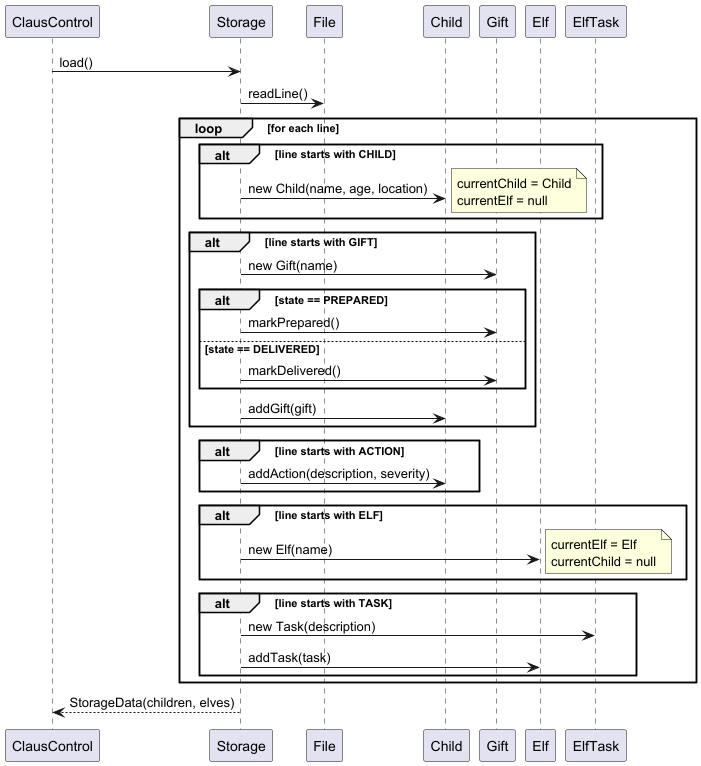
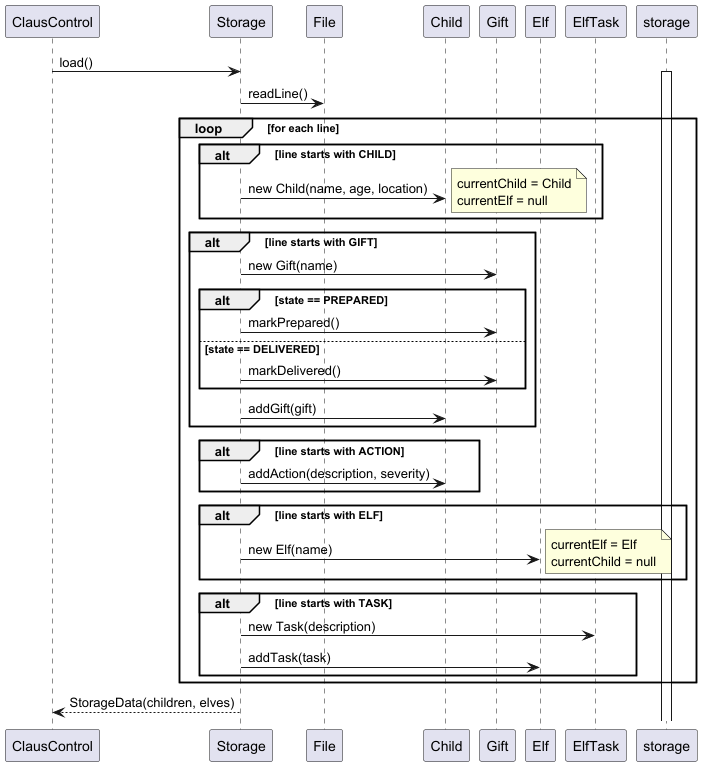
Fix DG documentation

diff --git a/docs/DeveloperGuide.md b/docs/DeveloperGuide.md
@@ -38,18 +38,31 @@ It handles saving and loading of  data such as:
 - Todo items
 Data is stored in a file and loaded back into the system when the application starts.
 
-#### Responsibilities
-The Storage component:
-- Saves application data to local device.
-- Loads saved data.
-
 #### Implementation
-The Storage component interacts with the following classes:
-- child
-- gift
-- elf
-- elftask
-- todo
+**Saving data**
+The save() method writes the lists into a .txt file in a structured format.
+1. Each child's name is written with the CHILD tag.
+2. The corresponding gifts of the child are written just below it with the GIFT tag.
+3. The child's actions and severities are stores with the ACTION tag.
+4. Each elf is written with the ELF tag.
+5. The corresponding elf tasks are written under it with the TASK tag.
+
+**Loading data**
+The load() method reconstructs data from the .txt file.
+1. It reads the file line by line.
+2. Splits each line using "|".
+3. Processes:
+   "CHILD" → creates new Child
+   "GIFT" → creates new Gift and restores the status of the gift.
+   "ACTION" → restores an action and its severity
+   "ELF" → creates a new Elf
+   "TASK" → adds a ElfTask
+4. Restores gift state:
+   PREPARED → markPrepared()
+   DELIVERED → markDelivered()
+   default → remains IN_PROGRESS
+5. Adds gift to the current child
+
 
 #### Design
 The storage component provides a unified interface (`Storage.java`) that handles the storage related operations.
@@ -58,11 +71,20 @@ The storage component provides a unified interface (`Storage.java`) that handles
 - When the application starts, data is loaded from storage.
 - When the user inputs commands,the resulting data changes are saved.
 
-#### Sequence diagram to show control flow
+#### UML diagrams to show control flow
+The class diagram and sequence diagrams are as follows-
+
+
+![StorageClassDiagram.png](diagrams/StorageClassDiagram.png)
+
 ![StorageSequenceDiagram.png](diagrams/StorageSequenceDiagram.png)
+
+
 
 #### Notes
 - Storage is independent of the command execution logic
+The storage component does not handle user inputs. The Logic layer interacts with Storage through its public methods- 
+save() and load() only. The Storage component does not know how data is handled internally.
 
 ## Data Component
 
@@ -757,7 +779,7 @@ Given below is a sequence diagram showing how the reset command works.
     - **Pros:** Fails fast and loudly if the application state is unexpectedly broken
     - **Cons:** Less robust in edge cases such as testing or partial initialisation scenarios
 
-```
+
 ### Add gift feature(Prerana Ravi Shankar)
 
 #### Overview
@@ -891,54 +913,6 @@ Given below is the sequence diagram
   - **Alternative 2:** Merge the command into deliveryStatus command.
     - **Pros:** Fewer classes.
     - **Cons:** Increases complexity of conditional logic.
-
-
-### Storage  (Prerana Ravi Shankar)
-
-#### Overview
-This component saves the data in the application and reloads it upon running the application.
-It stores:
-1. Child name
-2. Gift name/s
-3. Actions and severities
-4. Elves and elf tasks
-
-#### Implementation
-**Saving data**
-The save() method writes the lists into a .txt file in a structured format.
-1. Each child's name is written with the CHILD tag.
-2. The corresponding gifts of the child are written just below it with the GIFT tag.
-3. The child's actions and severities are stores with the ACTION tag.
-4. Each elf is written with the ELF tag.
-5. The corresponding elf tasks are written under it with the TASK tag.
-
-**Loading data**
-The load() method reconstructs data from the .txt file.
-1. It reads the file line by line.
-2. Splits each line using "|".
-3. Processes:
-   "CHILD" → creates new Child
-   "GIFT" → creates new Gift and restores the status of the gift.
-   "ACTION" → restores an action and its severity
-   "ELF" → creates a new Elf 
-   "TASK" → adds a ElfTask
-4. Restores gift state:
-   PREPARED → markPrepared()
-   DELIVERED → markDelivered()
-   default → remains IN_PROGRESS
-5. Adds gift to the current child
-
-#### UML Diagram- Sequence Diagram
-Given below is the sequence diagram 
-![StorageSequenceDiagram.png](diagrams/StorageSequenceDiagram.png)
-
-**Aspect:** How to implement the Storage feature
-  - **Alternative 1 (current choice):** Simple .txt file used to store data
-    - **Pros:** Human-readable file.
-    - **Cons:** Less structures.
-  - **Alternative 2:** JSON format
-    - **Pros:** Structured.
-    - **Cons:** Requires external libraries.
 
 
 ### GiftList Feature  (Prerana Ravi Shankar)
@@ -1243,4 +1217,3 @@ Given below are instructions to test the app manually.
 1. Add some children and todos, then type `bye` to exit.
 2. Relaunch the app.
 3. Expected: Children and todos are restored.
-'''

diff --git a/docs/team/prerana-r11.md b/docs/team/prerana-r11.md
@@ -54,6 +54,7 @@ Allows Santa to access saved data(childlist,giftlist and elflist) across all ses
 ### Contributions to the DG
 * Added implementation details for: add gift, remove gift, delivery_status, giftlist,storage and prepare gift features.
 * Added sequence diagram for all features.
+* Added documentation and UML diagrams for Storage and Parser components in Design section.
 
 ### Contributions to Team-Based Tasks
 * Set up Google Docs for planning tasks.
